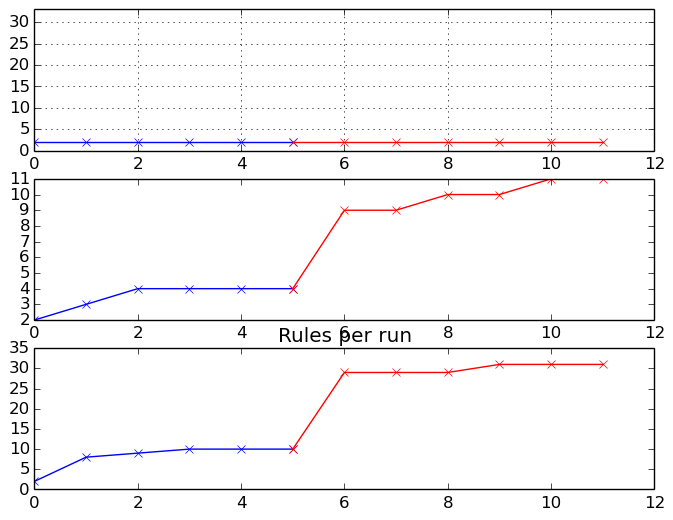
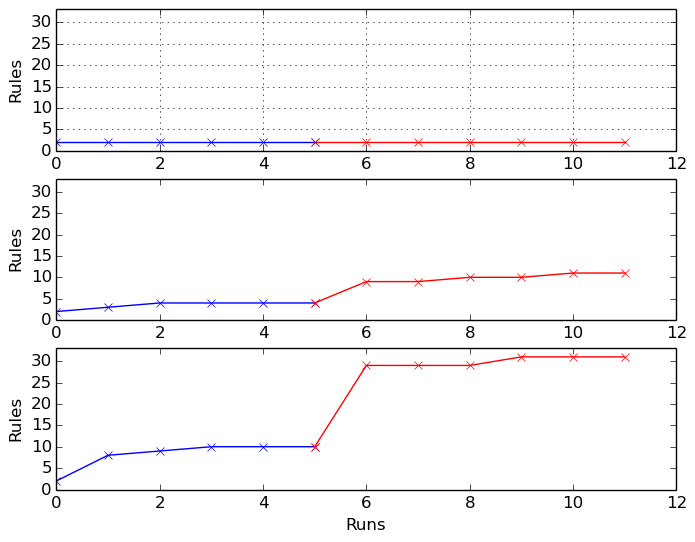
Complain enforce plotting is ready

diff --git a/Parser/metrics/plot_rules_total.py b/Parser/metrics/plot_rules_total.py
@@ -72,7 +72,8 @@ compl_rules = range(enforce+1)
 part_2a = []
 part_2b = []
 part_2c = []
-enf_rules = range(enforce,12)
+enf_rules = range(enforce,int(num_of_runs))
+
 for x1 in range(enforce+1):
     part_1a.append(rules[0][x1])
     part_1b.append(rules[1][x1])
@@ -81,6 +82,7 @@ for x1 in range(enforce,int(num_of_runs)):
     part_2a.append(rules[0][x1])
     part_2b.append(rules[1][x1])
     part_2c.append(rules[2][x1])
+
 ax1.plot(compl_rules, part_1a, label="dataset", color="blue", marker='x') 
 ax1.plot(enf_rules, part_2a, label="dataset", color="red", marker='x')
 
@@ -93,10 +95,14 @@ ax3.plot(compl_rules, part_1c, label="client", color="blue", marker='x')
 ax3.plot(enf_rules, part_2c, label="client", color="red", marker='x')
 
 ax1.grid()
-#ax1.set_xlabel("Runs")
-#ax1.set_ylabel(r"Rules")
+ax3.set_xlabel("Runs")
+ax1.set_ylabel(r"Rules")
+ax2.set_ylabel(r"Rules")
+ax3.set_ylabel(r"Rules")
 ax1.set_ylim(0,max_value+2)
+ax2.set_ylim(0,max_value+2)
+ax3.set_ylim(0,max_value+2)
 plt.show()
-plt.title("Rules per run")
+#plt.title("Rules per run")
 plt.savefig("../../parser_output/complain_enforce_rules.png",bbox_inches="tight")
 
